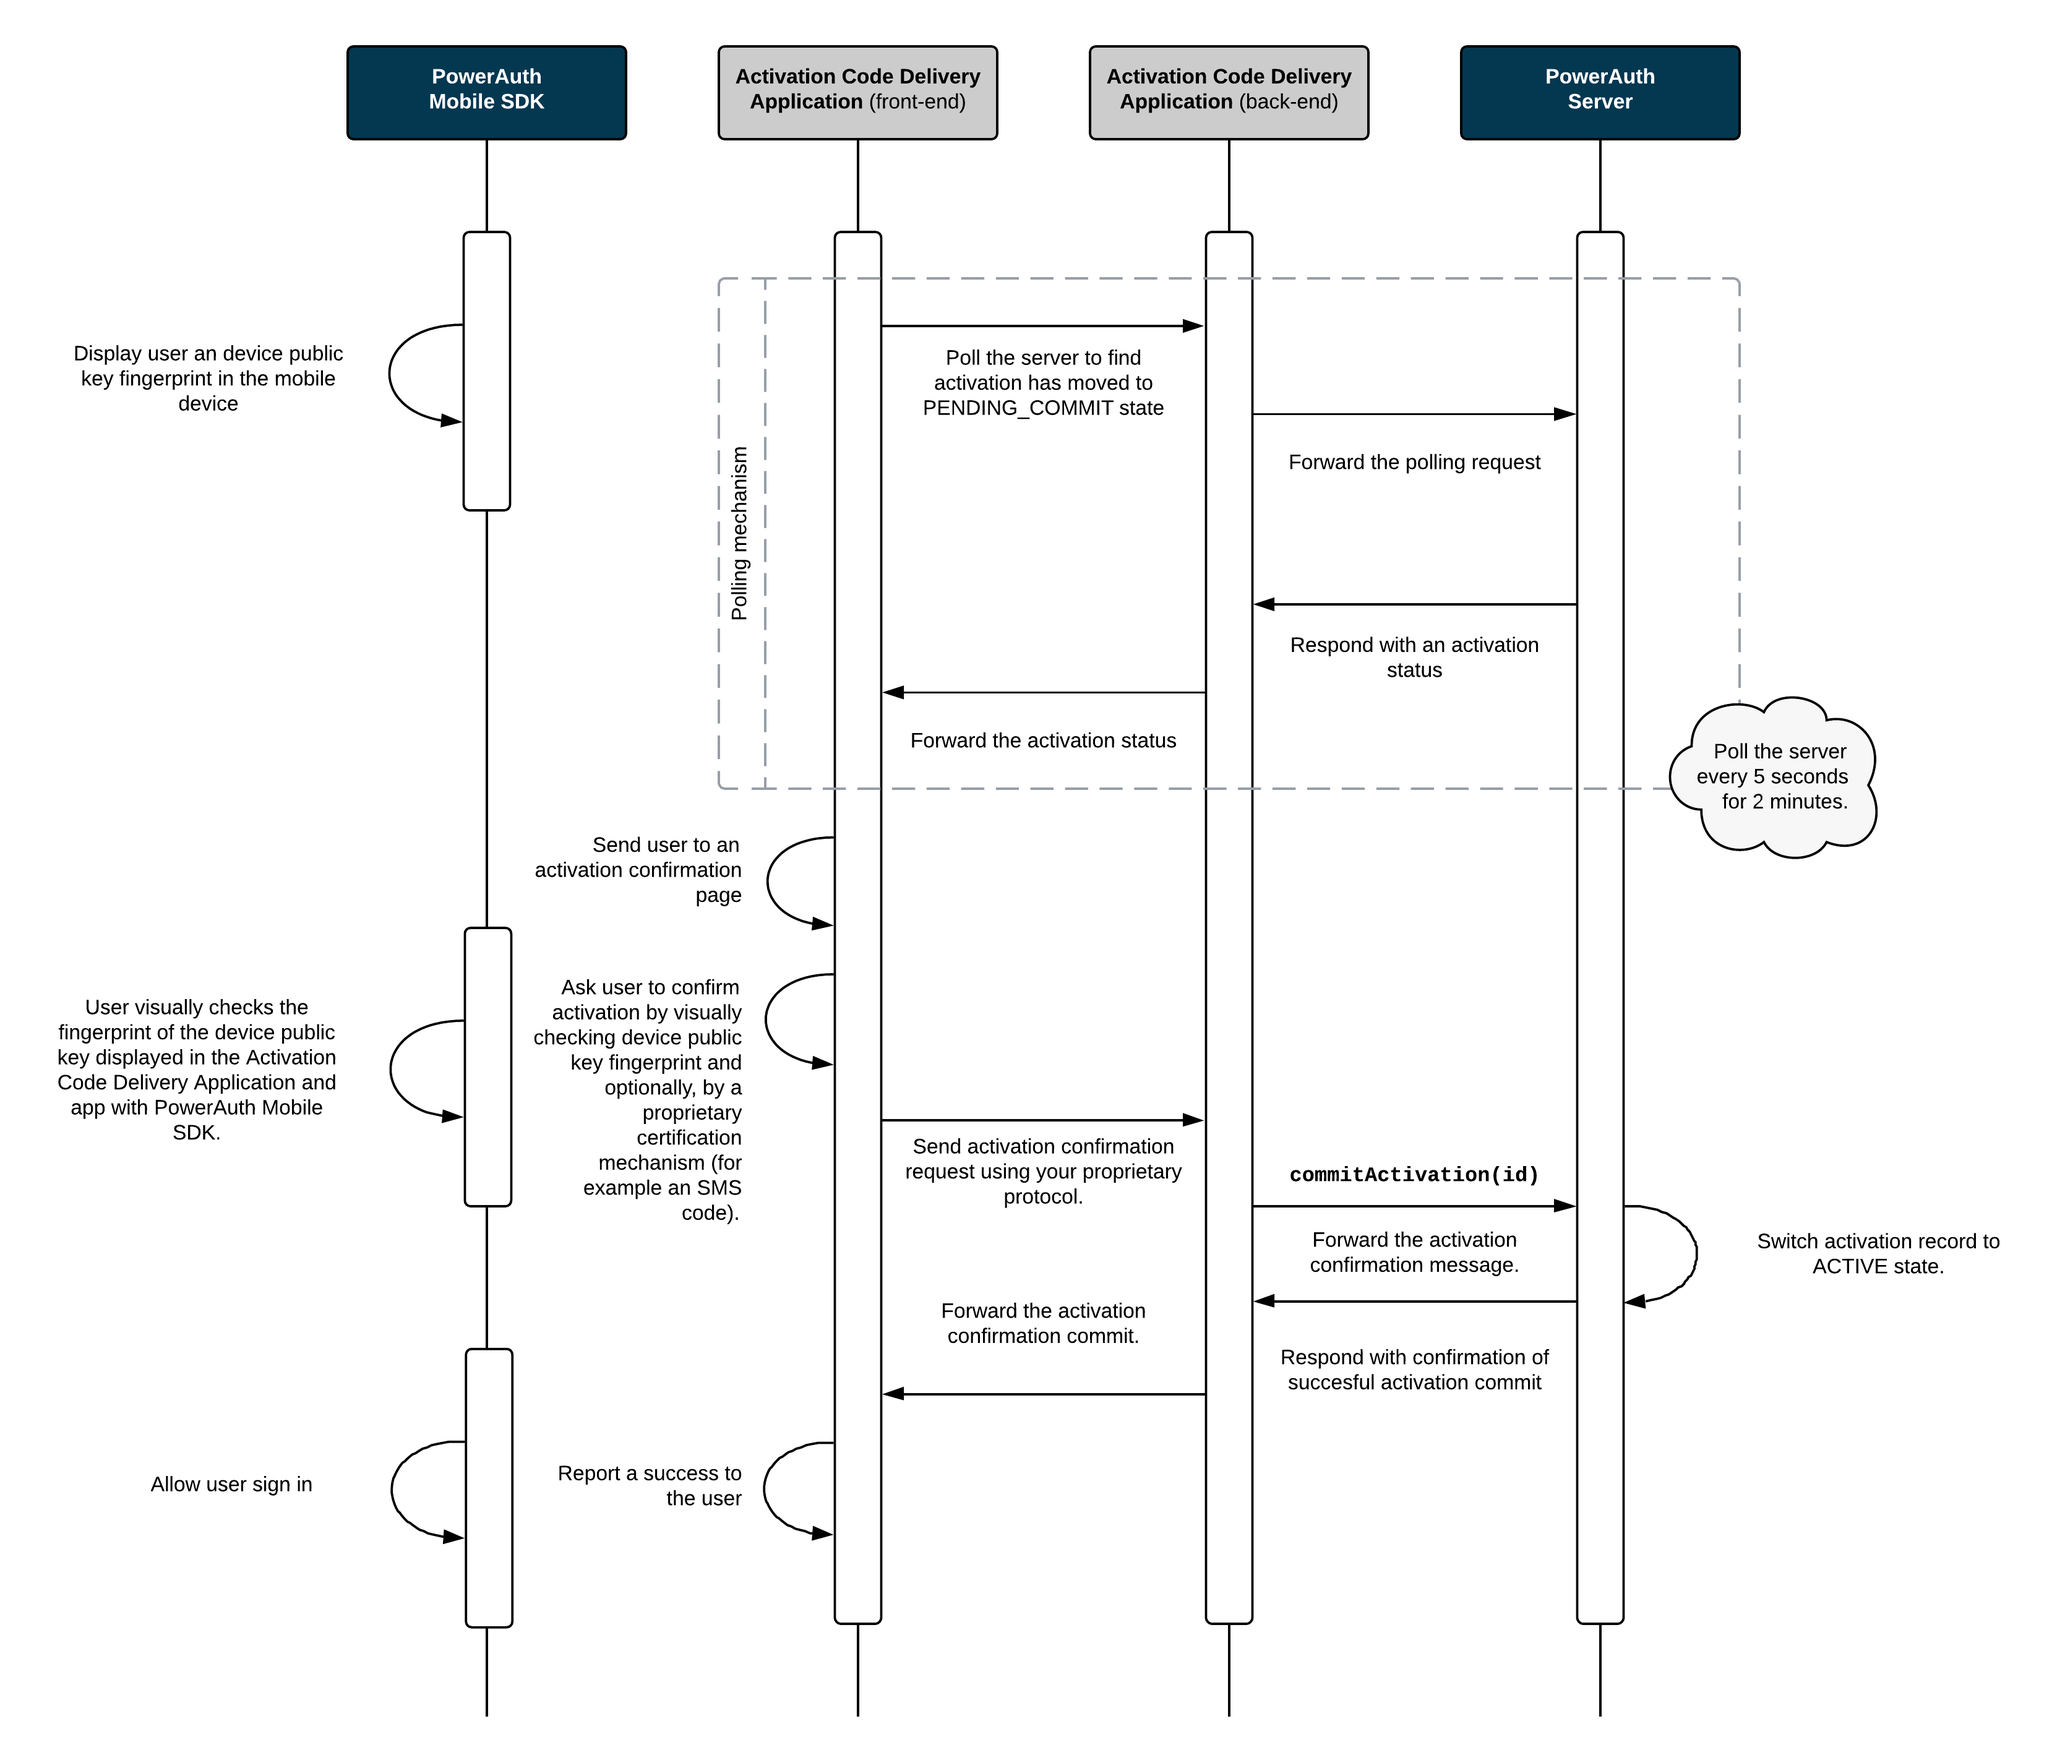
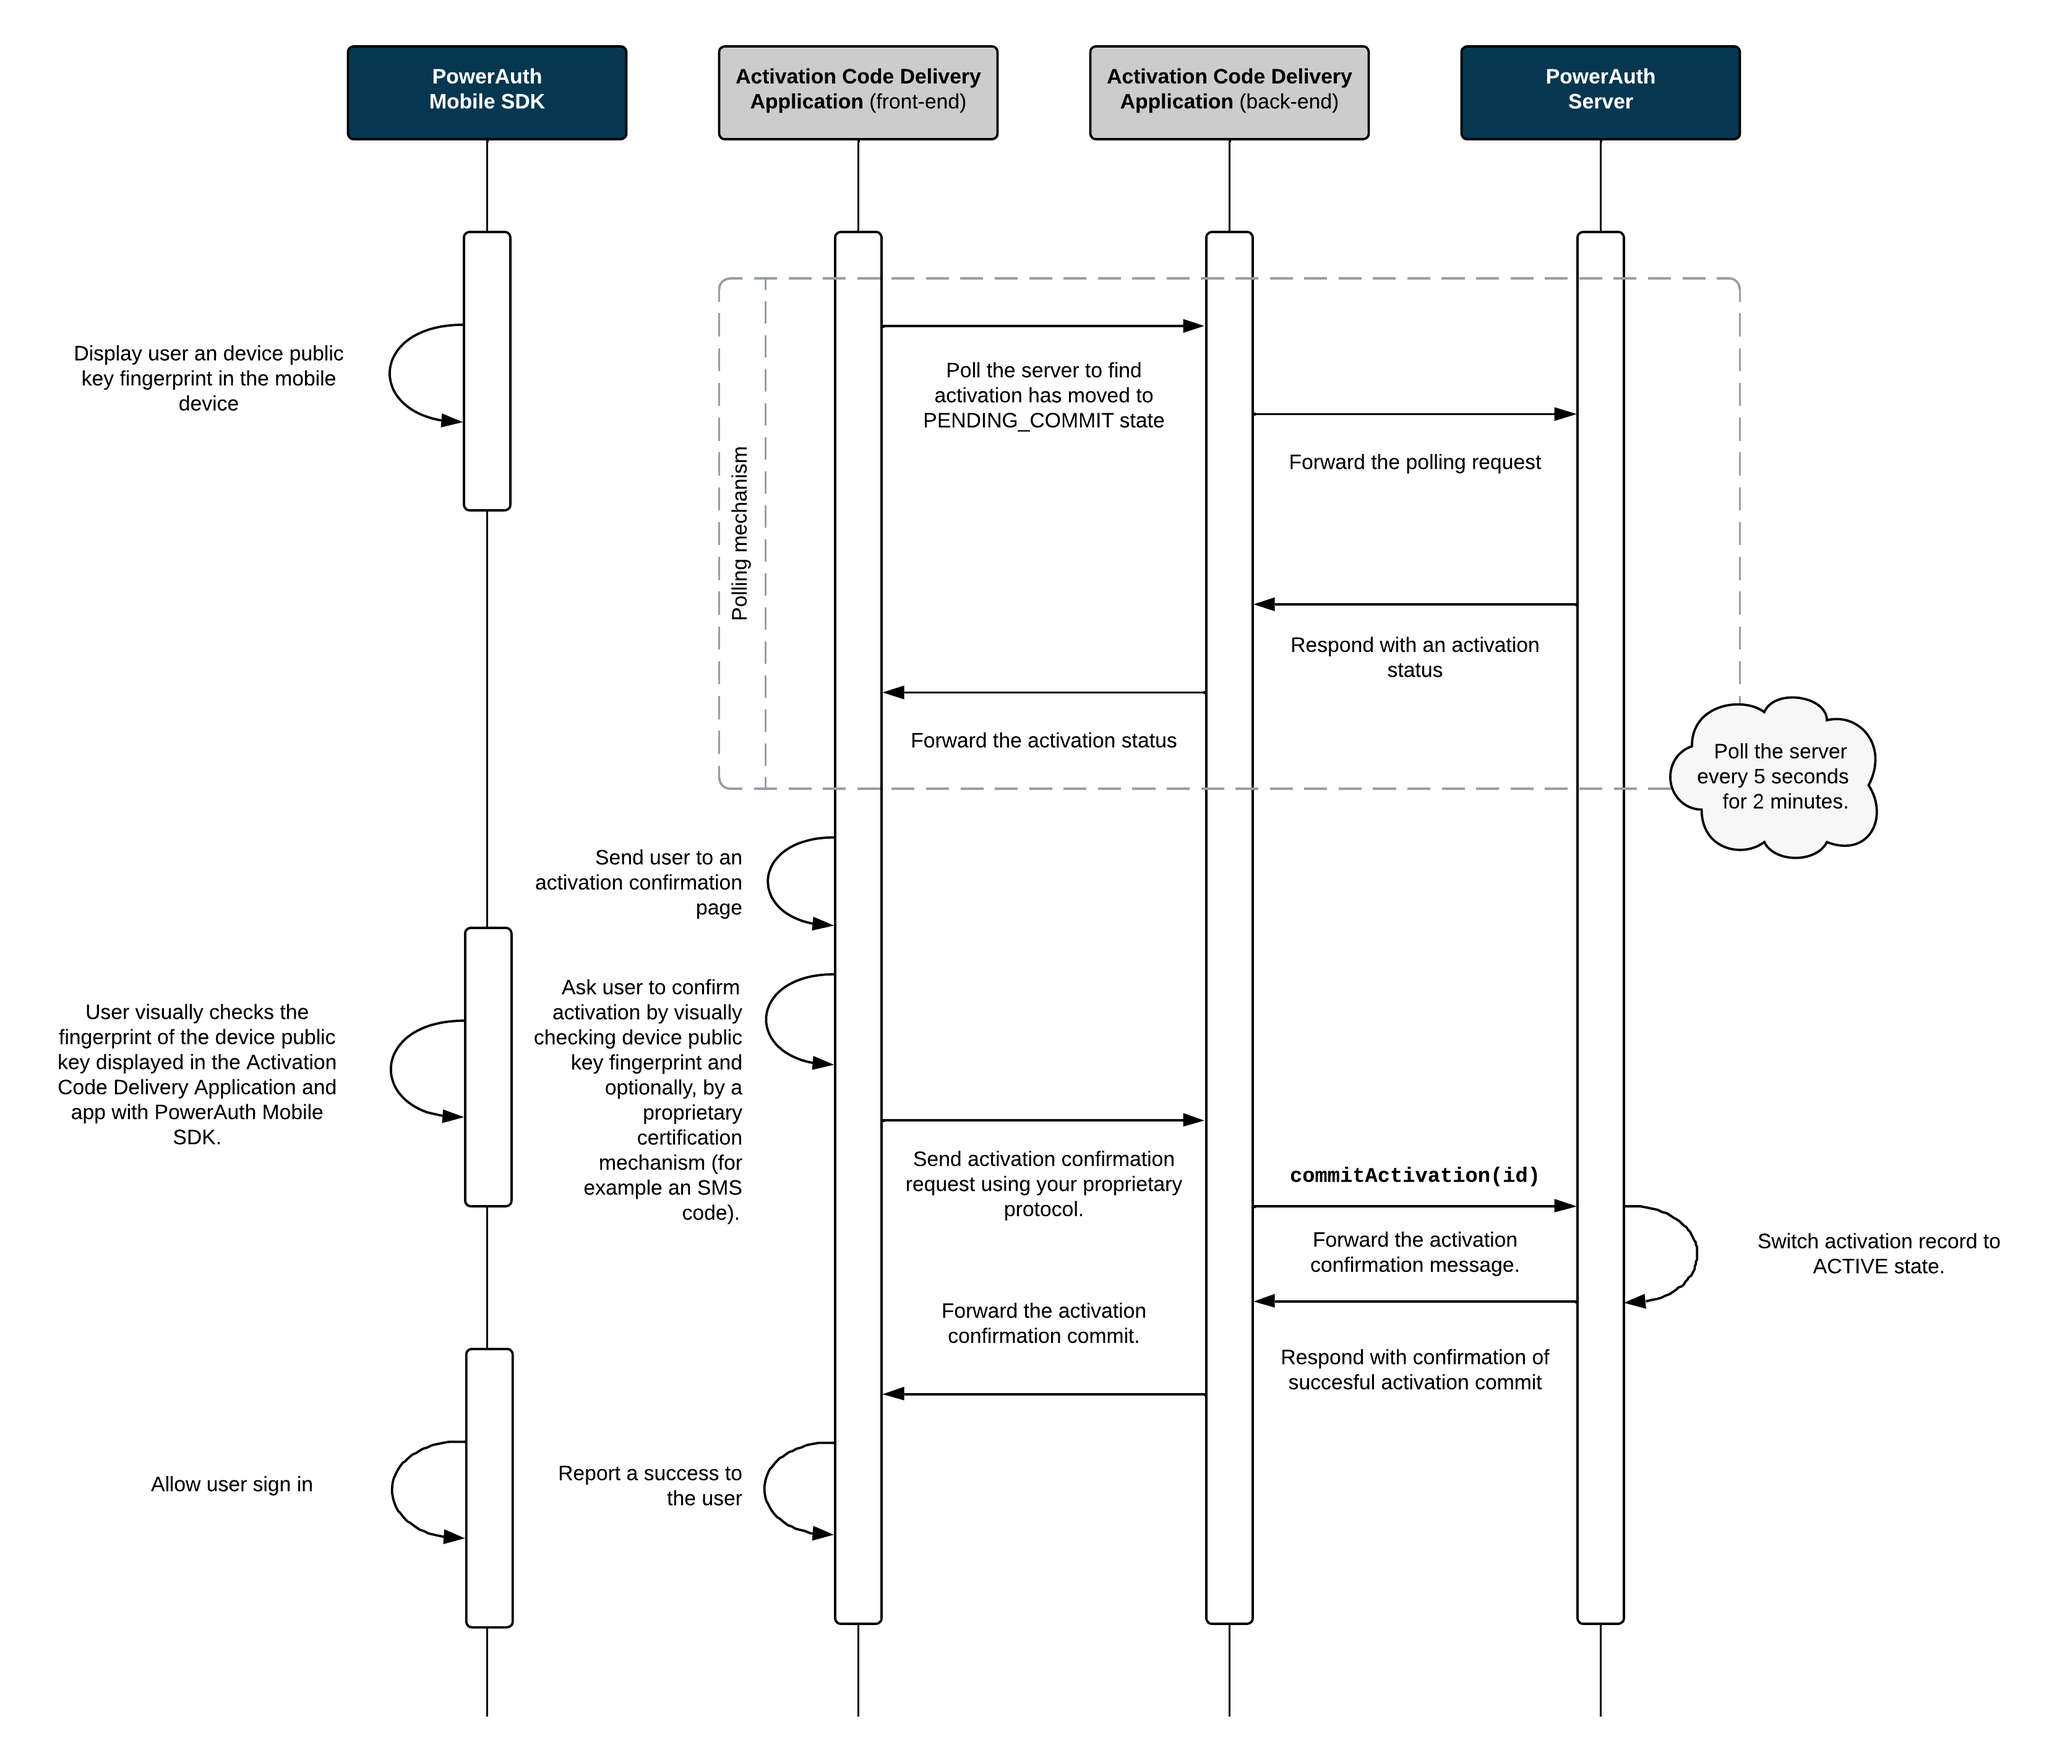
Review and update crypto4 documentation (#885)

diff --git a/docs/Temporary-Encryption-Keys.md b/docs/Temporary-Encryption-Keys.md
@@ -1,6 +1,6 @@
 # Temporary Encryption Keys
 
-To provide better resilience of encryption via advanced features, such as forward secrecy, PowerAuth protocol supports temporary encryption keys (since protocol version 3.3). The idea is that the keys embedded in the mobile app (`KEY_SERVER_MASTER_PUBLIC`) and device specific server public key (`KEY_SERVER_PUBLIC`) are only used for signature verification, serving as trust store on the client for data signed on the server.
+To provide better resilience of encryption via advanced features, such as forward secrecy, PowerAuth protocol supports temporary encryption keys (since protocol version 3.3). The idea is that the keys embedded in the mobile app (`KEY_MASTER_*_PUBLIC`) and device specific server public keys (`KEY_SERVER_*_PUBLIC`) are only used for signature verification, serving as trust store on the client for data signed on the server.
 
 Temporary encryption keys are created on the server side via PowerAuth Standard RESTful API. The server keeps the temporary encryption key that can be used in a standard end-to-end encryption.
 
@@ -23,7 +23,7 @@ The client sends request in the form of JWT, specifying two parameters:
 
 The JWT is signed using `HS384` with signing key `KEY_MAC_GET_APP_TEMP_KEY`.
 
-The server then takes the request, generates a temporary encryption key associated with the application key, and sends the JWT response signed with `ES384` using `KEY_SERVER_MASTER_PRIVATE` (optionally signed also with `MLDSA` algorithm based on used algorithm suite). The JWT response contains:
+The server then takes the request, generates a temporary encryption key associated with the application key, and sends the JWT response signed with `ES384` using `KEY_MASTER_ECDSA_P384_PRIVATE` (optionally signed also with `MLDSA` algorithm based on used algorithm suite). The JWT response contains:
 
 - `sub` - identifier of the key
 - `applicationKey` - back reference to the original data

diff --git a/docs/Computing-and-Validating-Authentication-Codes.md b/docs/Computing-and-Validating-Authentication-Codes.md
@@ -1,7 +1,5 @@
 # Computing and Validating Authentication Codes
 
-# PowerAuth authentication code
-
 While PowerAuth can be used for authentication of any type of data, the main objective of the protocol is to allow authenticating HTTP requests sent to the server in order to prove consistency, authenticity and integrity (CIA) of the data that were sent in the request.
 
 In practical deployment, Intermediate Server Application is responsible for building the normalized data for the purpose of computing the authentication code and passing it to PowerAuth Server, since it knows details about the networking operation (for example, it knows what endpoint is being signed, what HTTP method it uses, etc.). PowerAuth Server can then just simply accept any data and authentication code and perform authentication code validation. In an ideal world, PowerAuth Server should know nothing about the business domain it is used in.

diff --git a/docs/Standard-RESTful-API.md b/docs/Standard-RESTful-API.md
@@ -967,7 +967,7 @@ The decoded content of the JWT payload is:
 
 The issued public key can be related to either application or activation scope, based on the presence of `activationId` (see the request description for the details). In both cases, the JWT with the public key is signed using `ES384` algorithm (optionally also with `MLDSA`), and the scope determines what key is used:
 
-- Application scope: Private key is the application-specific master server private key `KEY_SERVER_MASTER_PRIVATE`.
+- Application scope: Private key is the application-specific master server private key `KEY_MASTER_ECDSA_P384_PRIVATE` (alternatively `KEY_MASTER_MLDSA65_PRIVATE` / `KEY_MASTER_MLDSA87_PRIVATE` for ML-DSA algorithms).
 - Activation scope: Private key is the activation-specific server private key `KEY_SERVER_PRIVATE`.
 
 <!-- end -->

diff --git a/docs/End-To-End-Encryption.md b/docs/End-To-End-Encryption.md
@@ -42,7 +42,7 @@ Because `KEY_TEMPORARY_SHARED_SECRET` is derived when requesting the temporary k
 - `PLAINTEXT` – Data to be encrypted
 - `ASSOCIATED_DATA` – Plaintext data authenticated by AEAD
 - `TIMESTAMP` – Unix timestamp in milliseconds
-- `NONCE` – 24 bytes long nonce (12 byte `REQUEST_NONCE` concatenated with 12 byte `RESPONSE_NONCE`)
+- `NONCE` – 24 bytes long nonce (a 12 byte `REQUEST_NONCE` concatenated with a 12 byte `RESPONSE_NONCE`)
 
 ## Encryption Scopes
 

diff --git a/docs/_Sidebar.md b/docs/_Sidebar.md
@@ -26,6 +26,7 @@
 - [Activation Code Format](./Activation-Code.md)
 - [Advanced Activation Flows](./Advanced-Activation-Flows)
 - [Implementation Details](./Implementation-notes.md)
+- [Upgrade Process](Activation-Upgrade.md)
 - [Shared Secret Derivation](Shared-Secret-Derivation.md)
 - [Dynamic Factor Keys](Dynamic-Factor-Keys.md)
 - [List of Used Algorithms](./List-of-Used-Algorithms.md)

diff --git a/docs/List-of-Used-Algorithms.md b/docs/List-of-Used-Algorithms.md
@@ -46,7 +46,7 @@ The following algorithms are used in the PowerAuth cryptography scheme.
 
 ### PowerAuth Protocol 3.x — **Legacy**
 
-**Current protocol version:** `3.3`
+**Latest 3.x protocol version:** `3.3`
 
 #### Cryptographic Primitives
 
